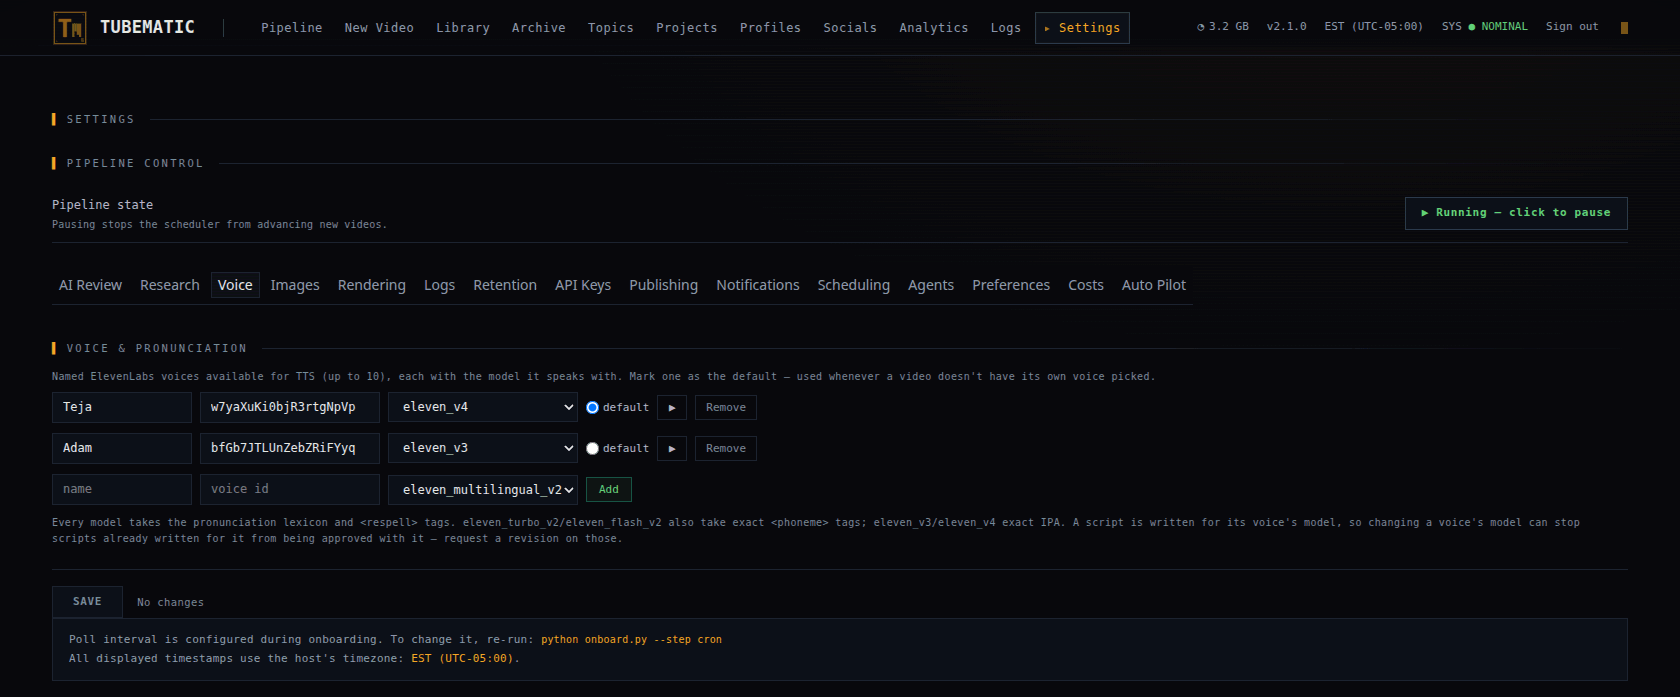
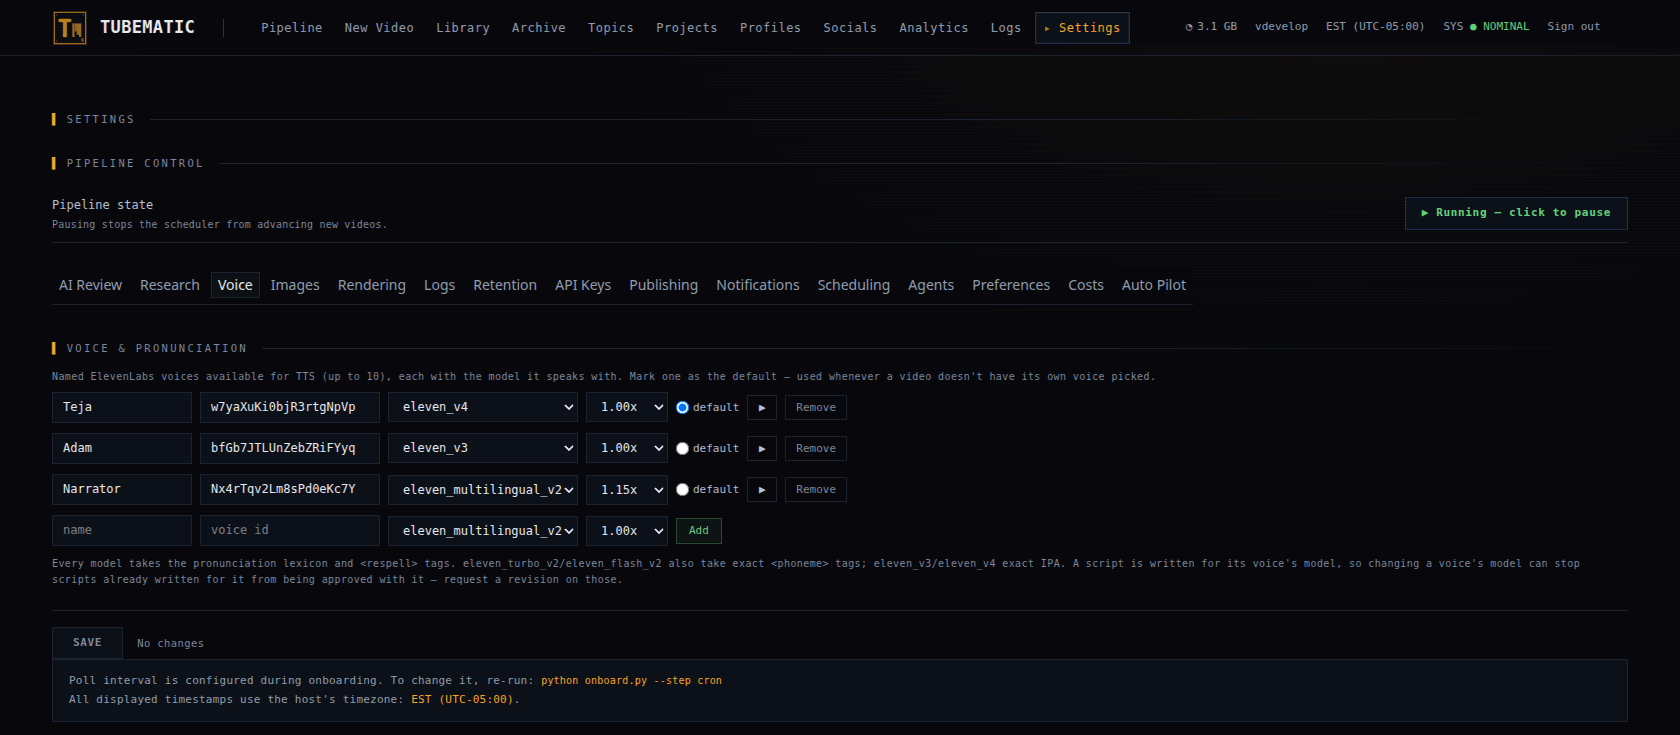
Docs: re-take the Settings Voice image with the speed select (TMDEV-216)

diff --git a/docs/user-guide/05-settings.md b/docs/user-guide/05-settings.md
@@ -62,7 +62,7 @@ research stops before you have enough to choose from.
 
 The list of ElevenLabs voices videos can use. A new install starts with two, Teja and Adam.
 
-![Settings, Voice tab: two voices, each with a name, a voice ID, a model, a default marker and a preview button](../images/settings-voice.png)
+![Settings, Voice tab: three voices, each with a name, a voice ID, a model, a speed, a default marker and a preview button; the two on eleven_v4 and eleven_v3 stay at 1.00x and the third is at 1.15x](../images/settings-voice.png)
 
 For each voice you set:
 
